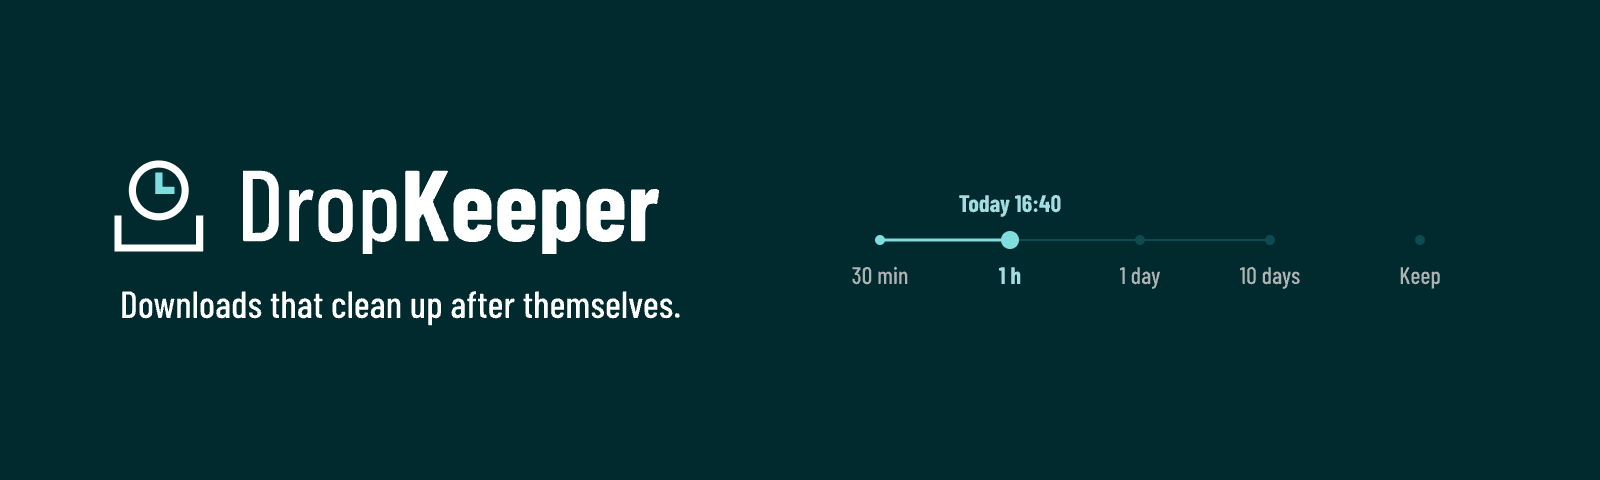
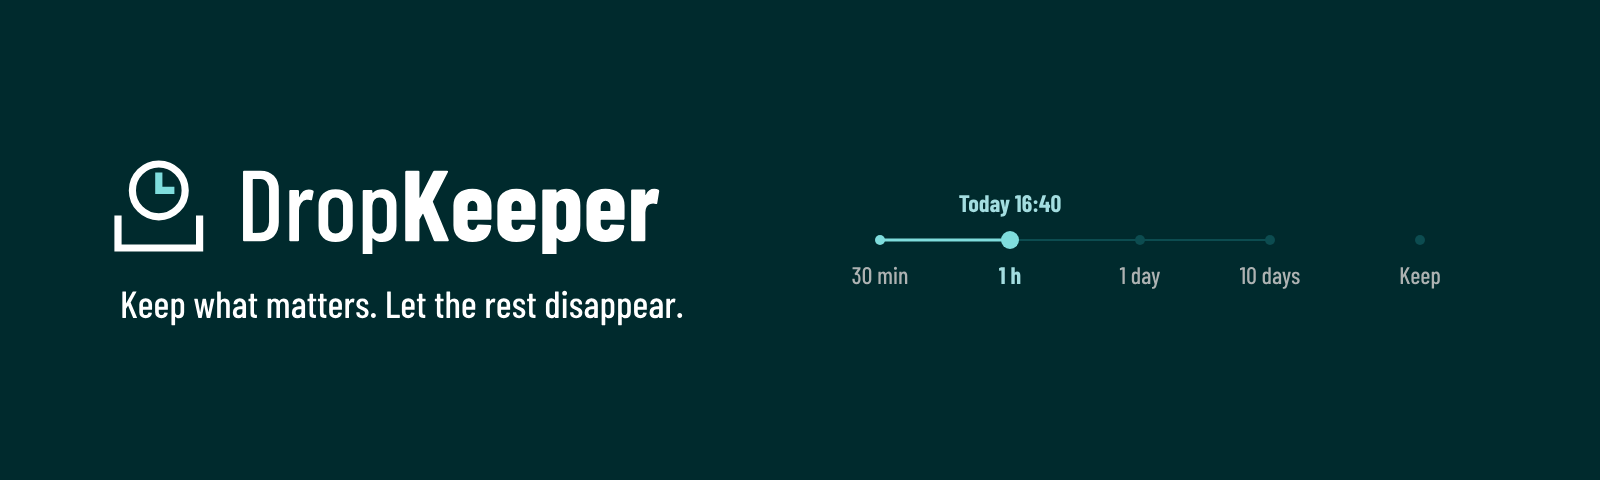
docs: replace the tagline with "Keep what matters. Let the rest disappear."

Changed region(s): [[0.0625, 0.5938, 0.4375, 0.6875]]

diff --git a/site/index.html b/site/index.html
@@ -5,8 +5,8 @@
 <meta name="viewport" content="width=device-width, initial-scale=1">
 <meta name="referrer" content="no-referrer">
 <meta name="color-scheme" content="light dark">
-<title>DropKeeper – Downloads that clean up after themselves</title>
-<meta name="description" content="DropKeeper gives every new download an expiry and moves it to the Trash when time is up. A free, open source, 100 % offline menu bar app for macOS.">
+<title>DropKeeper – Keep what matters. Let the rest disappear</title>
+<meta name="description" content="DropKeeper asks how long each new download should stay and moves expired files to the Trash. A free, open source, 100 % offline menu bar app for macOS.">
 <link rel="canonical" href="https://direcat.github.io/dropkeeper/">
 <link rel="icon" type="image/png" sizes="32x32" href="assets/favicon-32.png">
 <link rel="icon" type="image/svg+xml" href="assets/dropkeeper-mark.svg">
@@ -15,18 +15,18 @@
 
 <meta property="og:type" content="website">
 <meta property="og:site_name" content="DropKeeper">
-<meta property="og:title" content="DropKeeper – Downloads that clean up after themselves">
-<meta property="og:description" content="Every new download gets an expiry. When time is up, DropKeeper moves the file to the Trash. Free, open source, 100 % offline.">
+<meta property="og:title" content="DropKeeper – Keep what matters. Let the rest disappear">
+<meta property="og:description" content="Decide how long each new download stays. Expired files go to the Trash. Free, open source, 100 % offline.">
 <meta property="og:url" content="https://direcat.github.io/dropkeeper/">
 <meta property="og:image" content="https://direcat.github.io/dropkeeper/assets/social-preview.png">
 <meta property="og:image:width" content="1280">
 <meta property="og:image:height" content="640">
-<meta property="og:image:alt" content="DropKeeper – Downloads that clean up after themselves.">
+<meta property="og:image:alt" content="DropKeeper – Keep what matters. Let the rest disappear.">
 <meta name="twitter:card" content="summary_large_image">
-<meta name="twitter:title" content="DropKeeper – Downloads that clean up after themselves">
-<meta name="twitter:description" content="Every new download gets an expiry. When time is up, DropKeeper moves the file to the Trash. Free, open source, 100 % offline.">
+<meta name="twitter:title" content="DropKeeper – Keep what matters. Let the rest disappear">
+<meta name="twitter:description" content="Decide how long each new download stays. Expired files go to the Trash. Free, open source, 100 % offline.">
 <meta name="twitter:image" content="https://direcat.github.io/dropkeeper/assets/social-preview.png">
-<meta name="twitter:image:alt" content="DropKeeper – Downloads that clean up after themselves.">
+<meta name="twitter:image:alt" content="DropKeeper – Keep what matters. Let the rest disappear.">
 
 <link rel="stylesheet" href="assets/site.css">
 </head>
@@ -46,8 +46,8 @@
     </nav>
 
     <div class="hero-copy" id="top">
-      <h1>Downloads that clean up after themselves.</h1>
-      <p class="lede">Every new download gets an expiry: 30 minutes, an hour, a day, ten days, or keep it. When time is up, DropKeeper moves the file to the Trash.</p>
+      <h1>Keep what matters. Let the rest disappear.</h1>
+      <p class="lede">When a file lands in a watched folder, DropKeeper asks how long it should stay: half an hour, a day, ten days, or for good. Expired files go to the Trash, so you can still bring them back.</p>
       <div class="cta">
         <a class="btn" href="https://github.com/direcat/dropkeeper/releases/latest">Download for Mac</a>
         <div class="brew">

diff --git a/README.md b/README.md
@@ -1,13 +1,13 @@
 <picture>
   <source media="(prefers-color-scheme: dark)" srcset="assets/readme/dropkeeper-readme-header-dark.png">
-  <img alt="DropKeeper — Downloads that clean up after themselves." src="assets/readme/dropkeeper-readme-header-light.png">
+  <img alt="DropKeeper — Keep what matters. Let the rest disappear." src="assets/readme/dropkeeper-readme-header-light.png">
 </picture>
 
 # DropKeeper
 
 **Website: <https://direcat.github.io/dropkeeper/>**
 
-Downloads that clean up after themselves. Every new download gets an expiry — 30 minutes, an hour, a day, ten days, or keep it. When time is up, DropKeeper moves the file to the Trash.
+Keep what matters. Let the rest disappear. When a file lands in a watched folder, DropKeeper asks how long it should stay — half an hour, a day, ten days, or for good. Expired files go to the Trash, so you can still bring them back.
 
 - **100 % offline** — no analytics, no tracking, no update checks, no network access at all. Enforced in CI.
 - **Free and open source** (MIT).
